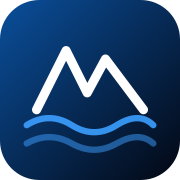
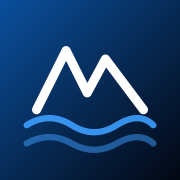
Actualizar el ícono del sitio y la imagen para compartir enlaces
- El favicon y los íconos de la app ahora usan el logo actual de VíaSur
- La imagen que se muestra al compartir el enlace en redes sociales usa los mismos colores de marca (azules) en vez de la paleta anterior

diff --git a/app/opengraph-image.tsx b/app/opengraph-image.tsx
@@ -16,20 +16,29 @@ export default function Image() {
           alignItems: "center",
           justifyContent: "center",
           backgroundImage:
-            "linear-gradient(135deg, #312e81 0%, #1e3a8a 55%, #059669 100%)",
+            "linear-gradient(135deg, #0a4f9c 0%, #0a1830 100%)",
         }}
       >
-        <svg width="220" height="220" viewBox="0 0 512 512">
-          <g transform="translate(256 266)">
+        <svg width="240" height="240" viewBox="0 0 512 512">
+          <g
+            transform="translate(256 216)"
+            fill="none"
+            stroke="#ffffff"
+            strokeWidth="26"
+            strokeLinecap="round"
+            strokeLinejoin="round"
+          >
+            <path d="M -152 96 L -68 -72 L -8 48 L 44 -48 L 152 96" />
+          </g>
+          <g stroke="#3b9eff" strokeWidth="18" strokeLinecap="round" fill="none">
             <path
-              d="M -108 -96 L -18 84 Q 0 122 18 84 L 108 -96"
-              fill="none"
-              stroke="#ffffff"
-              strokeWidth="34"
-              strokeLinecap="round"
-              strokeLinejoin="round"
+              d="M 76 356 Q 140 316 204 356 T 332 356 T 436 356"
+              opacity="0.9"
             />
-            <circle cx="0" cy="108" r="17" fill="#ffffff" />
+            <path
+              d="M 76 408 Q 140 372 204 408 T 332 408 T 436 408"
+              opacity="0.5"
+            />
           </g>
         </svg>
         <div
@@ -52,7 +61,7 @@ export default function Image() {
           <div
             style={{
               fontSize: 32,
-              color: "#d1fae5",
+              color: "#d9ebff",
               marginTop: 16,
             }}
           >
